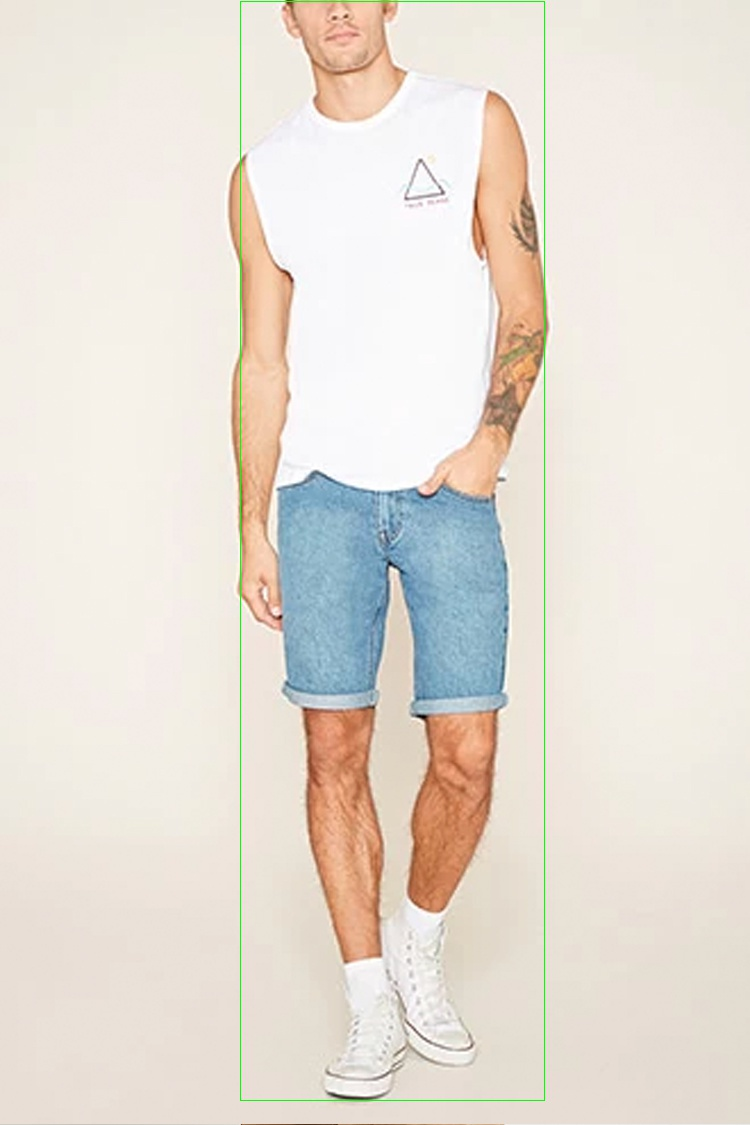
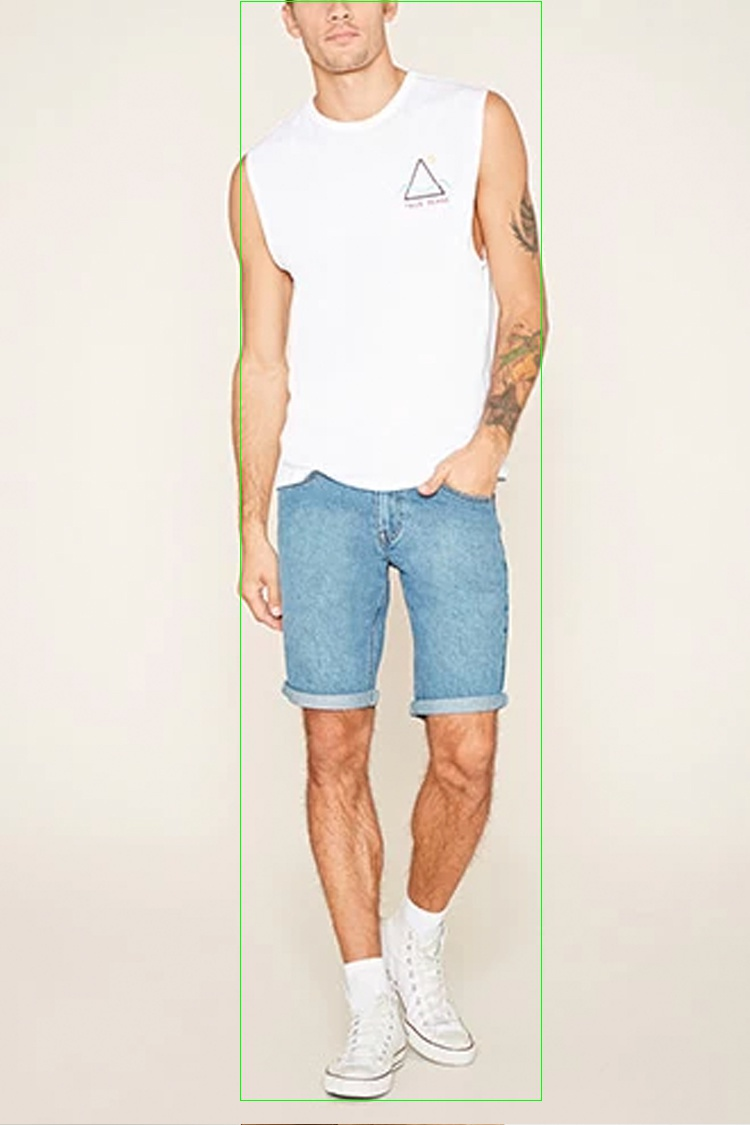
add blur and ignoring small rectangles

Changed region(s): [[0.7053, 0.0, 0.736, 0.9644]]

diff --git a/scripts.py b/scripts.py
@@ -2,20 +2,25 @@ import cv2
 
 for num in range(3, 25):
     img = cv2.imread('imgin/example_{0}_1.jpg'.format(num))
+    im = cv2.medianBlur(img, 5)
     height, width, _ = img.shape
 
     rect = img[0:50, 0:50]
     mean = rect.mean()
     THRESH_METHOD = cv2.THRESH_BINARY if (mean < (255 - mean)) else cv2.THRESH_BINARY_INV
 
-    imgray = cv2.cvtColor(img, cv2.COLOR_BGR2GRAY)
+    imgray = cv2.cvtColor(im, cv2.COLOR_BGR2GRAY)
     _, thresh = cv2.threshold(imgray, 127, 255, THRESH_METHOD)
     _, contours, _ = cv2.findContours(thresh, cv2.RETR_TREE, cv2.CHAIN_APPROX_SIMPLE)
 
     x1, y1, x2, y2 = width, height, 0, 0
+    print num, len(contours)
     for con in contours:
-        x, y, w, h = cv2.boundingRect(con)
-        x1, y1, x2, y2 = min(x, x1), min(y, y1), max(x + w, x2), max(y + h, y2)
+        area = cv2.contourArea(con)
+        if area > 10000.0 or len(contours) < 500:
+            x, y, w, h = cv2.boundingRect(con)
+            x1, y1, x2, y2 = min(x, x1), min(y, y1), max(x + w, x2), max(y + h, y2)
+            # img = cv2.rectangle(img, (x, y), (x + w, y + h), (0, 0, 255), 1)
 
     img = cv2.rectangle(img, (x1, y1), (x2, y2), (0, 255, 0), 1)
     cv2.imwrite('imgout/example_{0}_contour.jpg'.format(num), img)
